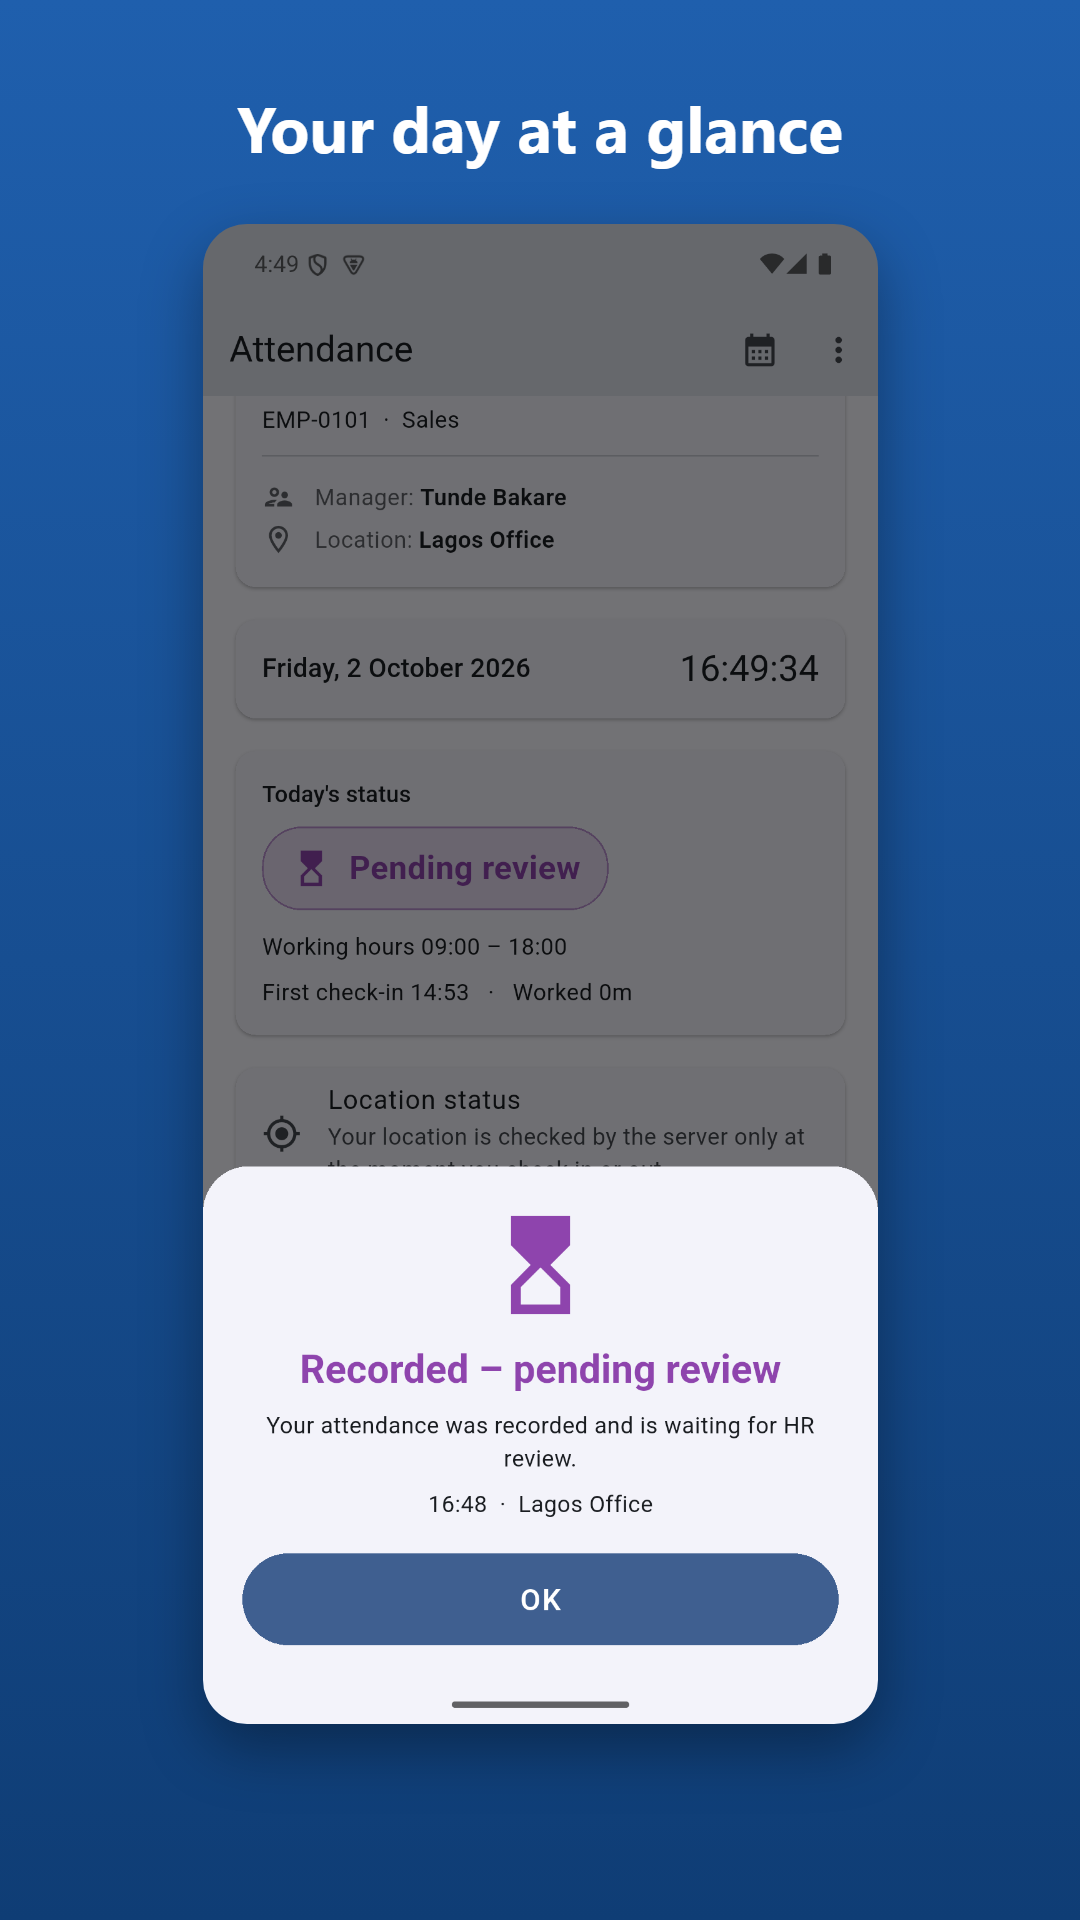
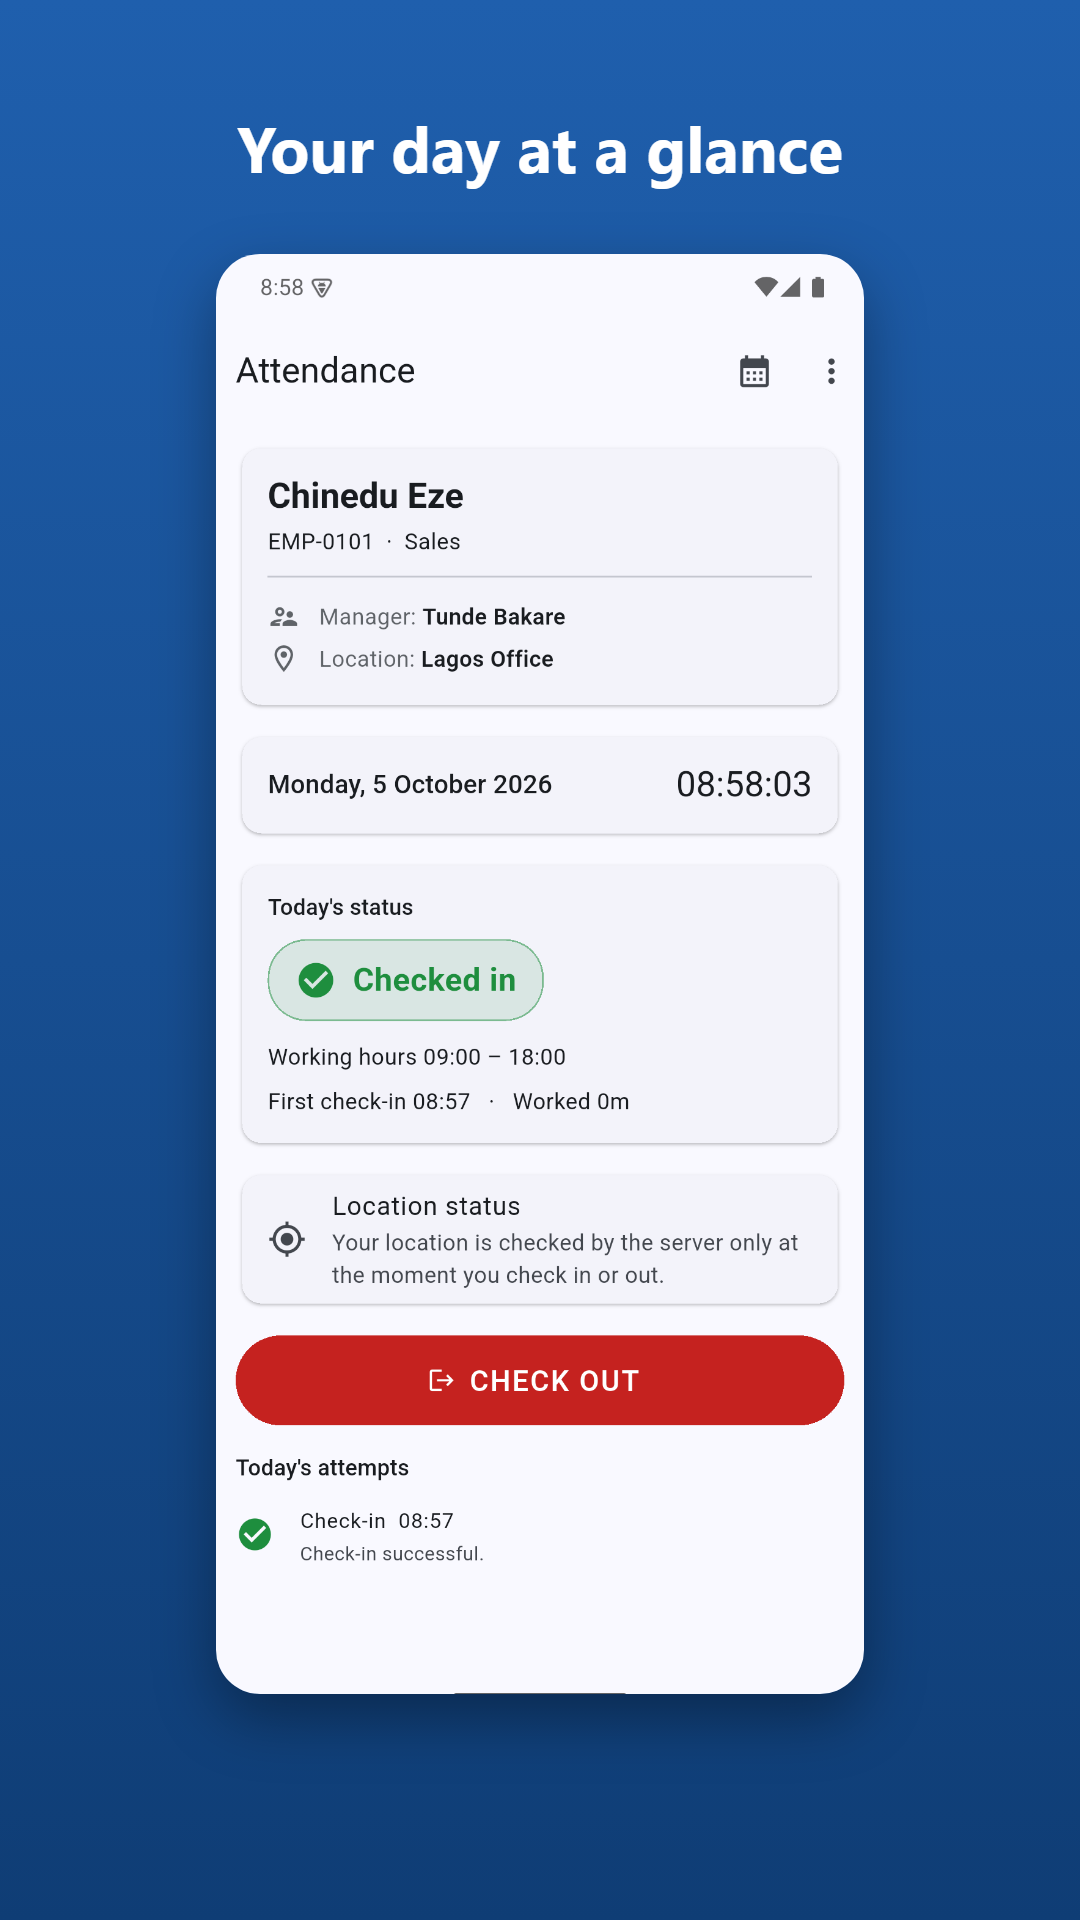
Store listing: new clean screenshots (check-in, today, history, reports) and 5th screenshot

diff --git a/mobile/store/make_store_images.py b/mobile/store/make_store_images.py
@@ -35,19 +35,23 @@ FEATURE = BASE.replace("{}", f"""
   </div>
 </div>""")
 
-SCREENSHOTS = [
-    ("phase10-2-checked-out.png", "Check in and out in one tap"),
-    ("phase10-3-pending-review.png", "Your day at a glance"),
-    ("phase15-app-create-report.png", "Managers: download team reports"),
-    ("phase15-app-ready-reports.png", "Reports ready every morning"),
+SCREENSHOTS = [  # emulator captures (1080x2400) from the local demo data
+    ("store-checked-in.png", "Check in with one tap"),
+    ("store-home-in.png", "Your day at a glance"),
+    ("store-history.png", "Your monthly attendance"),
+    ("store-reports-create.png", "Managers: download team reports"),
+    ("store-reports-ready.png", "Reports ready every morning"),
 ]
 
 
 def screenshot_html(image: Path, caption: str) -> str:
+    # The phone image is shown 6 px larger than its frame, so the emulator's thin coloured edge is cut off.
     return BASE.replace("{}", f"""
 <div style='width:1080px;height:1920px;background:linear-gradient(180deg,{BLUE} 0%,#0f3d75 100%);display:flex;flex-direction:column;align-items:center'>
-  <div style='color:#fff;font-size:64px;font-weight:700;text-align:center;padding:90px 60px 60px;line-height:1.15'>{caption}</div>
-  <img src='{image.as_uri()}' style='height:1500px;border-radius:44px;box-shadow:0 24px 60px rgba(0,0,0,.35)'>
+  <div style='color:#fff;font-size:64px;font-weight:700;text-align:center;padding:110px 60px 70px;line-height:1.15'>{caption}</div>
+  <div style='width:648px;height:1440px;border-radius:44px;overflow:hidden;box-shadow:0 24px 60px rgba(0,0,0,.35)'>
+    <img src='{image.as_uri()}' style='width:660px;height:1467px;margin:-6px 0 0 -6px;display:block'>
+  </div>
 </div>""")
 
 

diff --git a/mobile/store/listing.md b/mobile/store/listing.md
@@ -39,4 +39,4 @@ An account is required: it is created by Raya's HR department. If you can't log 
 **Graphics** (in `mobile/store/out/`, recreate with `backend\.venv\Scripts\python mobile\store\make_store_images.py`):
 - App icon 512×512: `icon-512.png`
 - Feature graphic 1024×500: `feature-1024x500.png`
-- Phone screenshots 1080×1920: `screenshot-1.png` … `screenshot-4.png`
+- Phone screenshots 1080×1920: `screenshot-1.png` … `screenshot-5.png`
